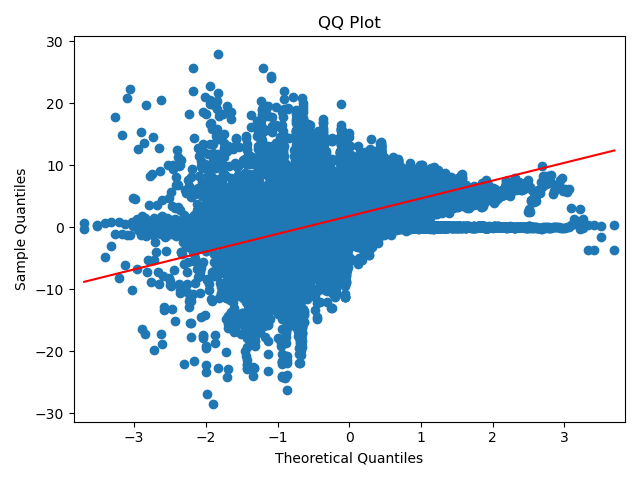
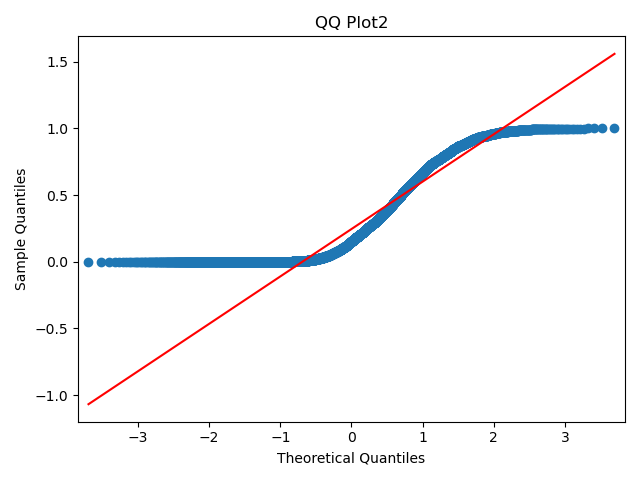
add qqplot to week9 homework

diff --git a/week9/week9.py b/week9/week9.py
@@ -92,7 +92,8 @@ for i in range(samp_plot.shape[0]):
     longdf = np.array(list_of_tuples, dtype=[('transcript', 'S11'), ('fpkm', float), ('sex', 'S6'), ('stage', int)])
     model = smf.ols(formula="fpkm ~ 1 + stage", data=longdf, subset=None, drop_cols=None)
     results = model.fit()
-    p_vals.append([results.params[0],results.params[1]])
+    p_vals.append(results.pvalues[0])
+
 qq_data = np.array(p_vals)
 
 sm.qqplot(qq_data, line='q')

diff --git a/week9/README.md b/week9/README.md
@@ -1,3 +1,6 @@
 #QBB2022 Week 9 Homework
 
 ignore the heatmap.png
+
+===2.2
+The distribution that is the default is not the correct distribution to compare.
